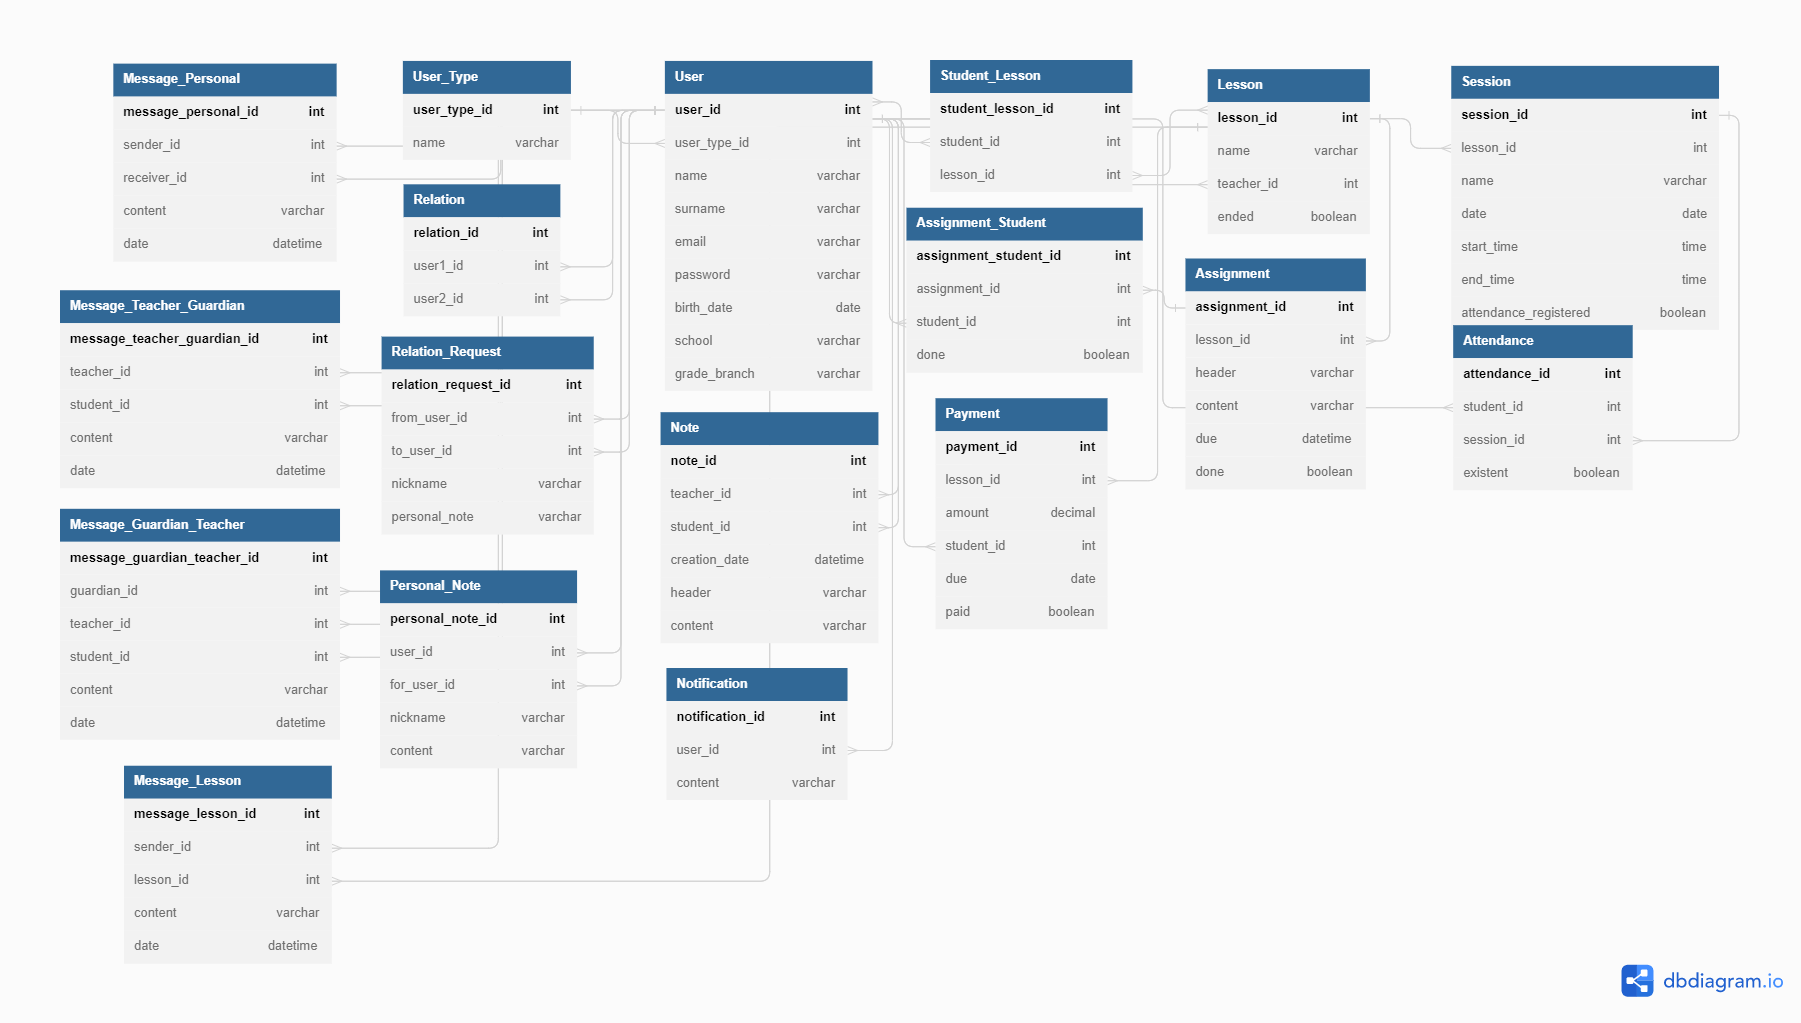
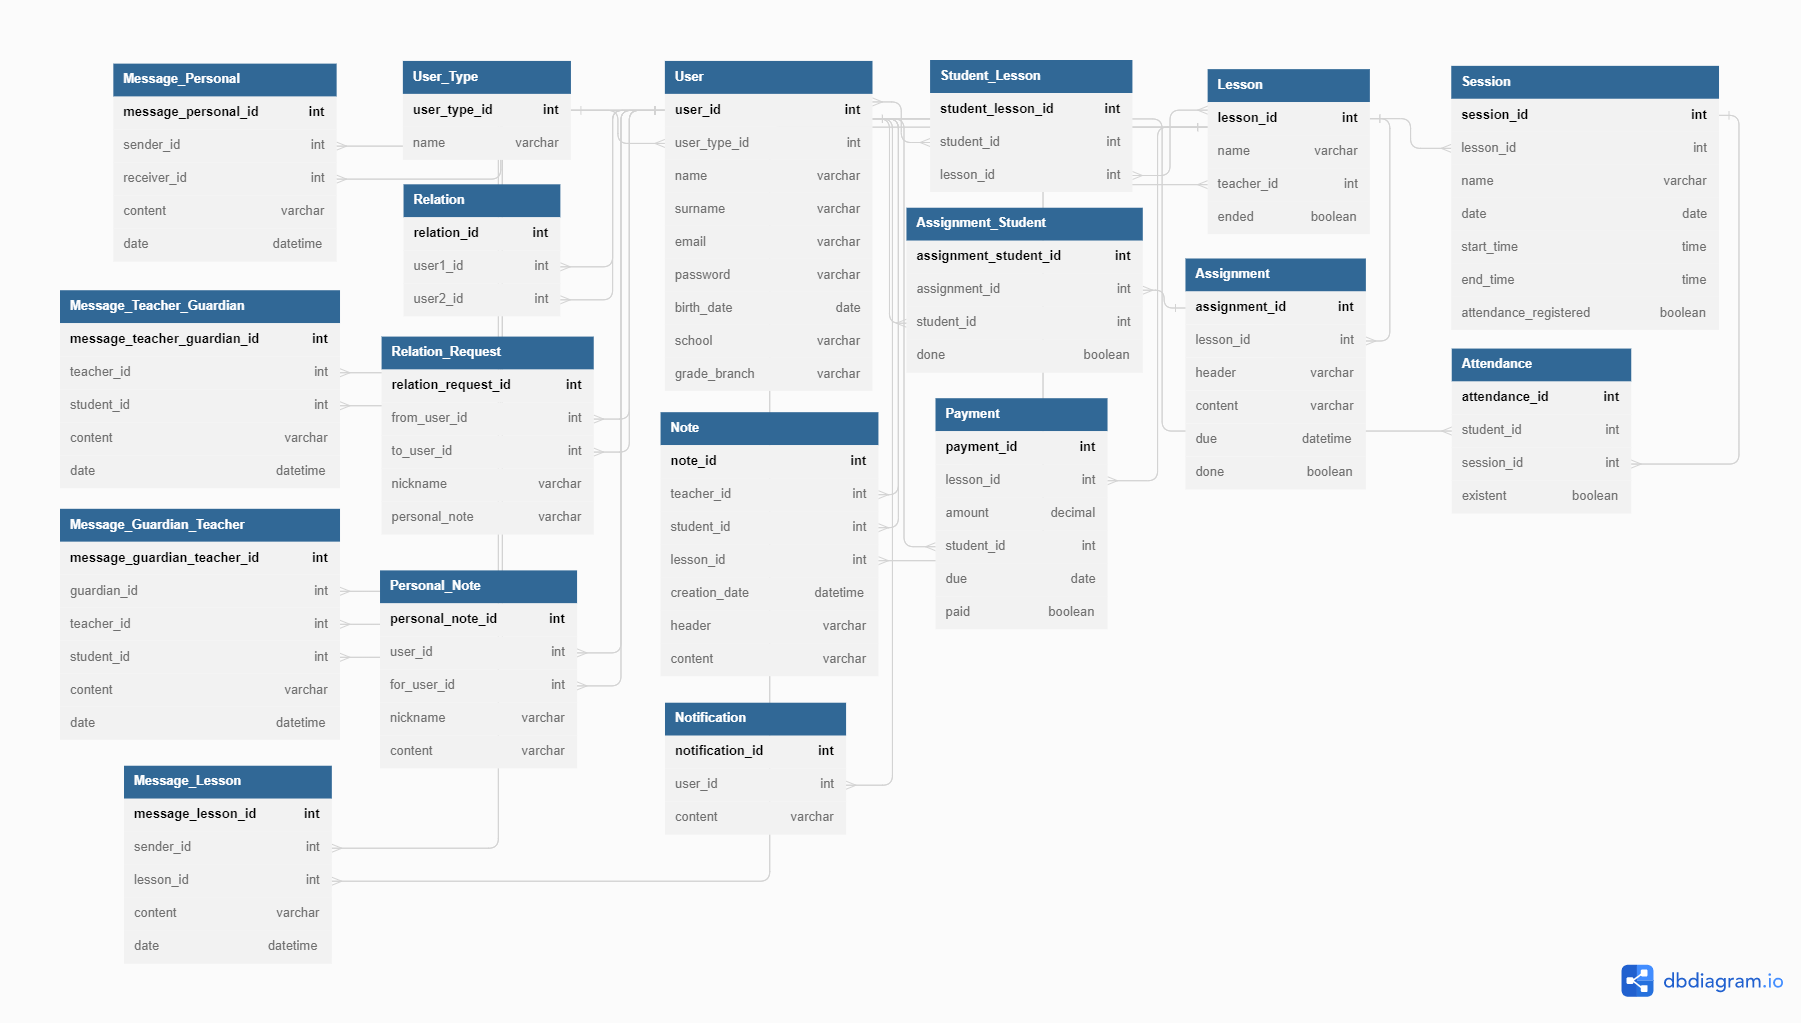
notes are bound to lessons now

diff --git a/site/pages/teacher/notes.js b/site/pages/teacher/notes.js
@@ -16,12 +16,14 @@ export default function Notes() {
     const [searchInput, setSearchInput] = useState('');
     const [personalNoteTextarea, setPersonalNoteTextarea] = useState('');
 
+    const [selectedNoteLessonId, setSelectedNoteLessonId] = useState(-1);
     const [selectedNoteId, setSelectedNoteId] = useState('');
     const [selectedNoteHeaderInput, setSelectedNoteHeaderInput] = useState('');
     const [selectedNoteContentInput, setSelectedNoteContentInput] = useState('');
 
     const [createNoteContentInput, setCreateNoteContentInput] = useState('');
     const [createNoteHeaderInput, setCreateNoteHeaderInput] = useState('');
+    const [createNoteSelectedId, setCreateNoteSelectedId] = useState(-1);
 
     useEffect(() => {
         backendFetchGET('/getStudentRelations', async (response) => {
@@ -36,6 +38,9 @@ export default function Notes() {
         backendFetchGET('/getTeacherNotes', async (response) => {
             if (response.status == 200) {
                 let res = await response.json();
+                res.forEach((elem, index) => {
+                    if (res[index].lesson_id == null) res[index].lesson_id = -1
+                });
                 setNotesList(res);
             }
         })
@@ -47,6 +52,8 @@ export default function Notes() {
         setSelectedNoteId('');
         setSelectedNoteContentInput('');
         setSelectedNoteHeaderInput('');
+        setCreateNoteSelectedId(-1);
+        setSelectedNoteLessonId(-1);
     }, [studentSelectedId]);
 
     useEffect(() => {
@@ -56,14 +63,36 @@ export default function Notes() {
         setSelectedNoteContentInput(note.content);
     }, [selectedNoteId])
 
+    useEffect(() => {
+        if(studentRelations.length <= 0) return;
+        if(studentRelations[0].lessonList != undefined) return;
+        backendFetchPOST('/getTeacherStudentLesson', {
+            userIds: studentRelations.map(student => student.user_id)
+        }, async (response) => {
+            let res = await response.json();
+            setStudentRelations(old => {
+                let toReturn = JSON.parse(JSON.stringify(old));
+                toReturn.forEach((student, index) => {
+                    toReturn[index].lessonList = [];
+                });
+                res.forEach(studentLesson => {
+                    let studentIndex = toReturn.findIndex(student => student.user_id == studentLesson.student_id);
+                    toReturn[studentIndex].lessonList.push(studentLesson);
+                })
+                return toReturn;
+            })
+        });
+    }, [studentRelations]);
+
     function createNoteBtnHandle() {
 
         setLoading(true);
-
+    
         backendFetchPOST('/createNote', {
             student_id: studentSelectedId,
             header: createNoteHeaderInput,
-            content: createNoteContentInput
+            content: createNoteContentInput,
+            lesson_id: createNoteSelectedId
         }, async (response) => {
             if (response.status == 200) {
                 let res = await response.json();
@@ -73,6 +102,8 @@ export default function Notes() {
                         content: createNoteContentInput,
                         header: createNoteHeaderInput,
                         student_id: studentSelectedId,
+                        lesson_id: createNoteSelectedId,
+                        lesson_name: studentRelations.find(student => student.user_id == studentSelectedId).lessonList.find(lesson => lesson.lesson_id == createNoteSelectedId).name,
                         note_id: res.insertId,
                         creation_date: new Date()
                     });
@@ -160,12 +191,40 @@ export default function Notes() {
 
     let noteElems = []; 
     notesList.forEach(note => {
-        if (note.student_id != studentSelectedId) return;
+        if (note.student_id != studentSelectedId || note.lesson_id != selectedNoteLessonId) return;
         let optionText = dateToString(new Date(note.creation_date)) + ' - ' + note.header;
         noteElems.push(
             <option key={note.note_id} value={note.note_id}>{optionText}</option>
         );
     })
+
+    let commonLessonElem = <option key={-1} value={-1}>Genel</option>;
+    let studentIndex = studentRelations.findIndex(user => user.user_id == studentSelectedId);
+
+    let noteLessonElems = [
+        commonLessonElem
+    ];
+
+    notesList.forEach(note => {
+        if (noteLessonElems.findIndex(elem => elem.props.value == note.lesson_id) != -1
+        || note.student_id != studentSelectedId) return;
+        noteLessonElems.push(
+            <option key={note.lesson_id} value={note.lesson_id}>{"("+note.lesson_id+") "+note.lesson_name}</option>
+        )
+    })
+
+    let givenLessonsElems = [
+        commonLessonElem
+    ];
+    
+    if(studentRelations[studentIndex]?.lessonList != undefined) {
+        studentRelations[studentIndex].lessonList.forEach(studentLesson => {
+            let optionText = "("+ studentLesson.lesson_id + ") " + studentLesson.name;
+            givenLessonsElems.push(
+                <option key={studentLesson.lesson_id} value={studentLesson.lesson_id}>{optionText}</option>
+            ) ;
+        })
+    }
 
     return (
         <div className={`${styles.pageContainer} ${loading ? 'disabled' : ''}`}>
@@ -190,6 +249,9 @@ export default function Notes() {
                 <div className={`fieldContainer ${styles.flex} ${styles.flexGap}`}>
                     <p>Öğrenciye Dair Notlar</p>
                     <div className={`${styles.flex} ${styles.flexColumn} ${styles.flexGap}`}>
+                        <select value={selectedNoteLessonId} onChange={(event) => {setSelectedNoteLessonId(event.target.value)}}>
+                            {noteLessonElems}
+                        </select>
                         <select size={5} className={styles.flexOne}
                         onChange={(event) => {setSelectedNoteId(event.target.value)}}>
                             {noteElems}
@@ -198,6 +260,7 @@ export default function Notes() {
                         onClick={deleteNoteBtnHandle}>Sil</button>
                     </div>
                     <div className={`${styles.flex} ${styles.flexColumn} ${styles.flexGap}`}>
+                        <select className={styles.hidden}></select>
                         <input value={selectedNoteHeaderInput}
                         onChange={(event) => {setSelectedNoteHeaderInput(event.target.value)}}></input>
                         <textarea value={selectedNoteContentInput}
@@ -206,13 +269,17 @@ export default function Notes() {
                         onClick={editNoteBtnHandle}>Düzenle</button>
                     </div>
                 </div>
-                <div className={`fieldContainer ${styles.flex} ${styles.flexColumn} ${styles.flexGap}`}>
+                <div className={`fieldContainer ${styles.flex} ${styles.flexColumn} ${styles.flexGap} ${studentRelations[0]?.lessonList != undefined ? '' : 'loading'}`}>
                     <p>Not Oluştur</p>
                     <textarea placeholder='İçerik...' value={createNoteContentInput}
                         onChange={(event) => { setCreateNoteContentInput(event.target.value) }}></textarea>
                     <p>Başlık</p>
                     <input placeholder='Başlık' value={createNoteHeaderInput}
                         onChange={(event) => { setCreateNoteHeaderInput(event.target.value) }}></input>
+                    <p>İlişkili Ders</p>
+                    <select value={createNoteSelectedId} onChange={(event) => {setCreateNoteSelectedId(event.target.value)}}>
+                        {givenLessonsElems}
+                    </select>
                     <button onClick={createNoteBtnHandle}>Oluştur</button>
                 </div>
 

diff --git a/backend/index.js b/backend/index.js
@@ -1181,7 +1181,7 @@ app.get('/getTeacherNotes', async (req, res) => {
     try {
 
         const [getTeacherNotes_sql] = await dbConnection.execute(
-            'SELECT * FROM Note WHERE teacher_id = ? ORDER BY creation_date',
+            'SELECT note_id, Note.teacher_id, student_id, Note.lesson_id, creation_date, header, content, name as lesson_name FROM Note LEFT OUTER JOIN Lesson ON Lesson.lesson_id = Note.lesson_id WHERE Note.teacher_id = ? ORDER BY creation_date',
             [req.session.user_id]
         );
 
@@ -1194,8 +1194,8 @@ app.get('/getTeacherNotes', async (req, res) => {
 app.post('/createNote', async (req, res) => {
     try {
         const [createNote_sql] = await dbConnection.execute(
-            'INSERT INTO Note (teacher_id, student_id, creation_date, header, content) VALUES (?,?,CURDATE(),?,?)',
-            [req.session.user_id, req.body.student_id, req.body.header, req.body.content]
+            'INSERT INTO Note (teacher_id, student_id, lesson_id, creation_date, header, content) VALUES (?,?,?,CURDATE(),?,?)',
+            [req.session.user_id, req.body.student_id, req.body.lesson_id,req.body.header, req.body.content]
         )
 
         return res.status(200).send(JSON.stringify({ insertId: createNote_sql.insertId }));

diff --git a/site/styles/teacher/notes.module.css b/site/styles/teacher/notes.module.css
@@ -1,42 +1,46 @@
-.pageContainer{
-    padding:4%;
+.pageContainer {
+    padding: 4%;
     display: flex;
     flex-direction: row;
     gap: 8%;
     justify-content: center;
 }
 
-.pageContainer select{
+.pageContainer select {
     min-width: 10em;
 }
 
-.pageContainer textarea{
+.pageContainer textarea {
     resize: none;
     height: 5em;
 }
 
-.sideContainer{
+.sideContainer {
     display: flex;
     flex-direction: column;
     gap: 0.5em;
 }
 
-.sideContainer p{
+.sideContainer p {
     text-align: center;
 }
 
-.flex{
-    display:flex;
+.flex {
+    display: flex;
 }
 
-.flexColumn{
+.flexColumn {
     flex-direction: column;
 }
 
-.flexOne{
+.flexOne {
     flex: 1;
 }
 
-.flexGap{
-    gap:0.4em;
+.flexGap {
+    gap: 0.4em;
+}
+
+.hidden {
+    visibility: hidden;
 }

diff --git a/site/pages/teacher/students.js b/site/pages/teacher/students.js
@@ -39,7 +39,7 @@ export default function Students() {
     if(studentList[studentIndex]?.lessonList != undefined) {
         givenLessonsElems = studentList[studentIndex].lessonList.map(studentLesson => {
             let optionText = "("+ studentLesson.lesson_id + ") " + studentLesson.name;
-            return <option key={studentLesson.lesson_id} value={studentLesson.lesosn_id}>{optionText}</option>
+            return <option key={studentLesson.lesson_id} value={studentLesson.lesson_id}>{optionText}</option>
         })
     }
 
